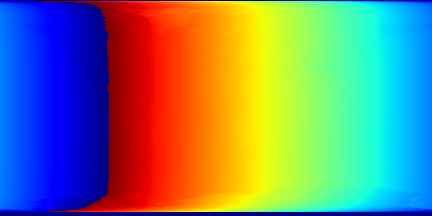
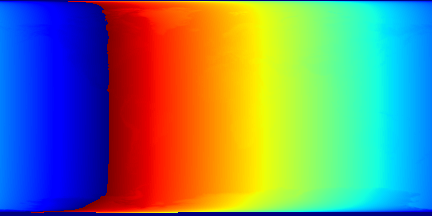
bugfix: latitude was inverted

diff --git a/step1a_makeElevationMap.py b/step1a_makeElevationMap.py
@@ -104,7 +104,7 @@ if not os.path.exists("elev.bin"):
 
     # Make latitude axis ...
     for iy in range(lat.size):
-        lat[iy] = math.radians(180.0 * (float(iy) + 0.5) / float(lat.size) -  90.0) # [deg]
+        lat[lat.size - 1 - iy] = math.radians(180.0 * (float(iy) + 0.5) / float(lat.size) - 90.0)   # [deg]
 
     # Save elevation map along with axes ...
     lon.tofile("lon.bin")
